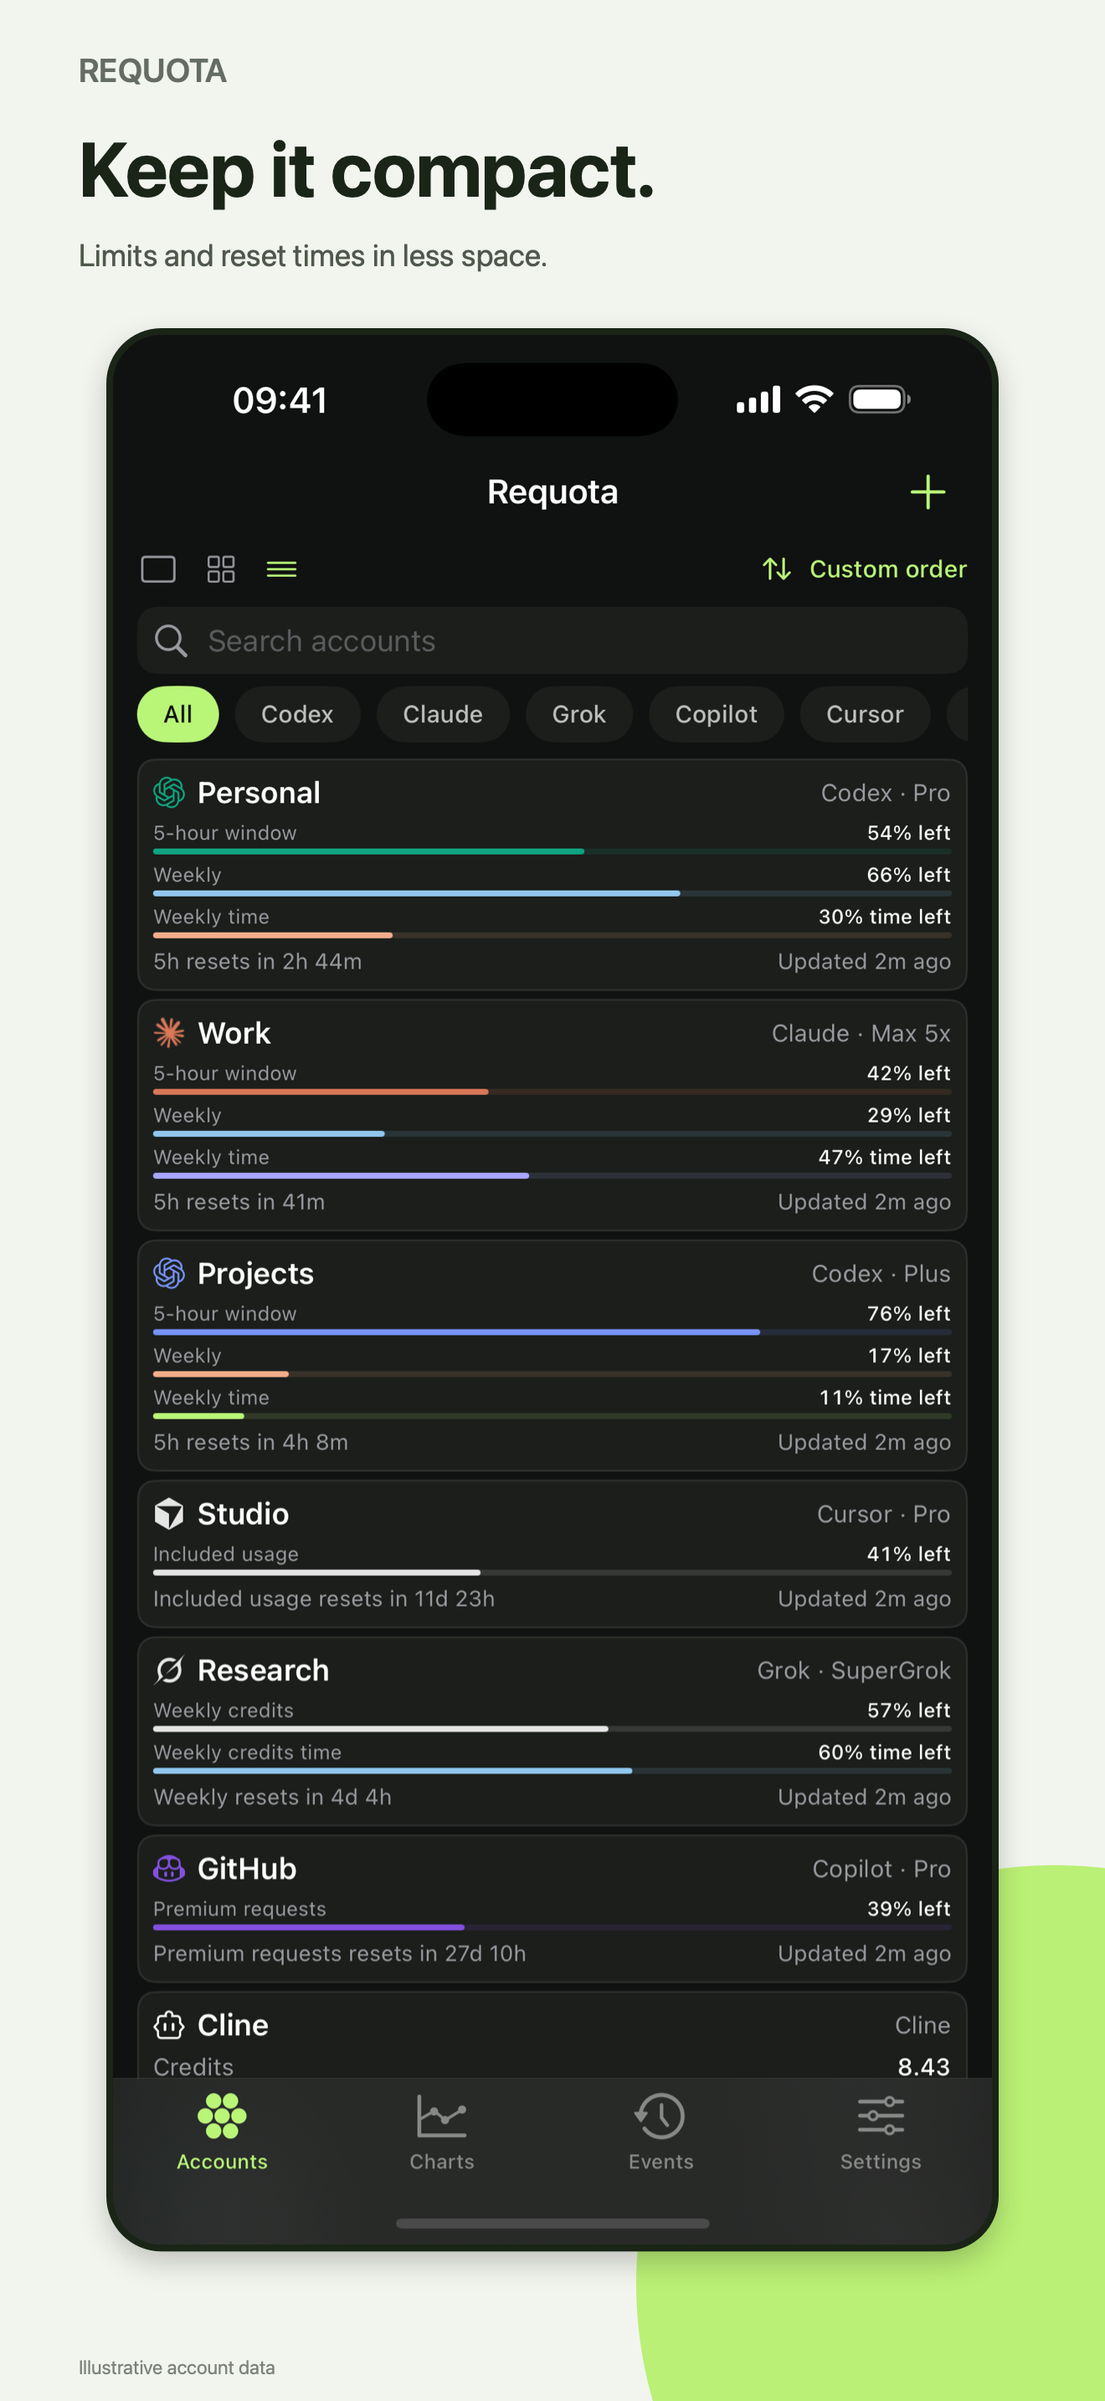
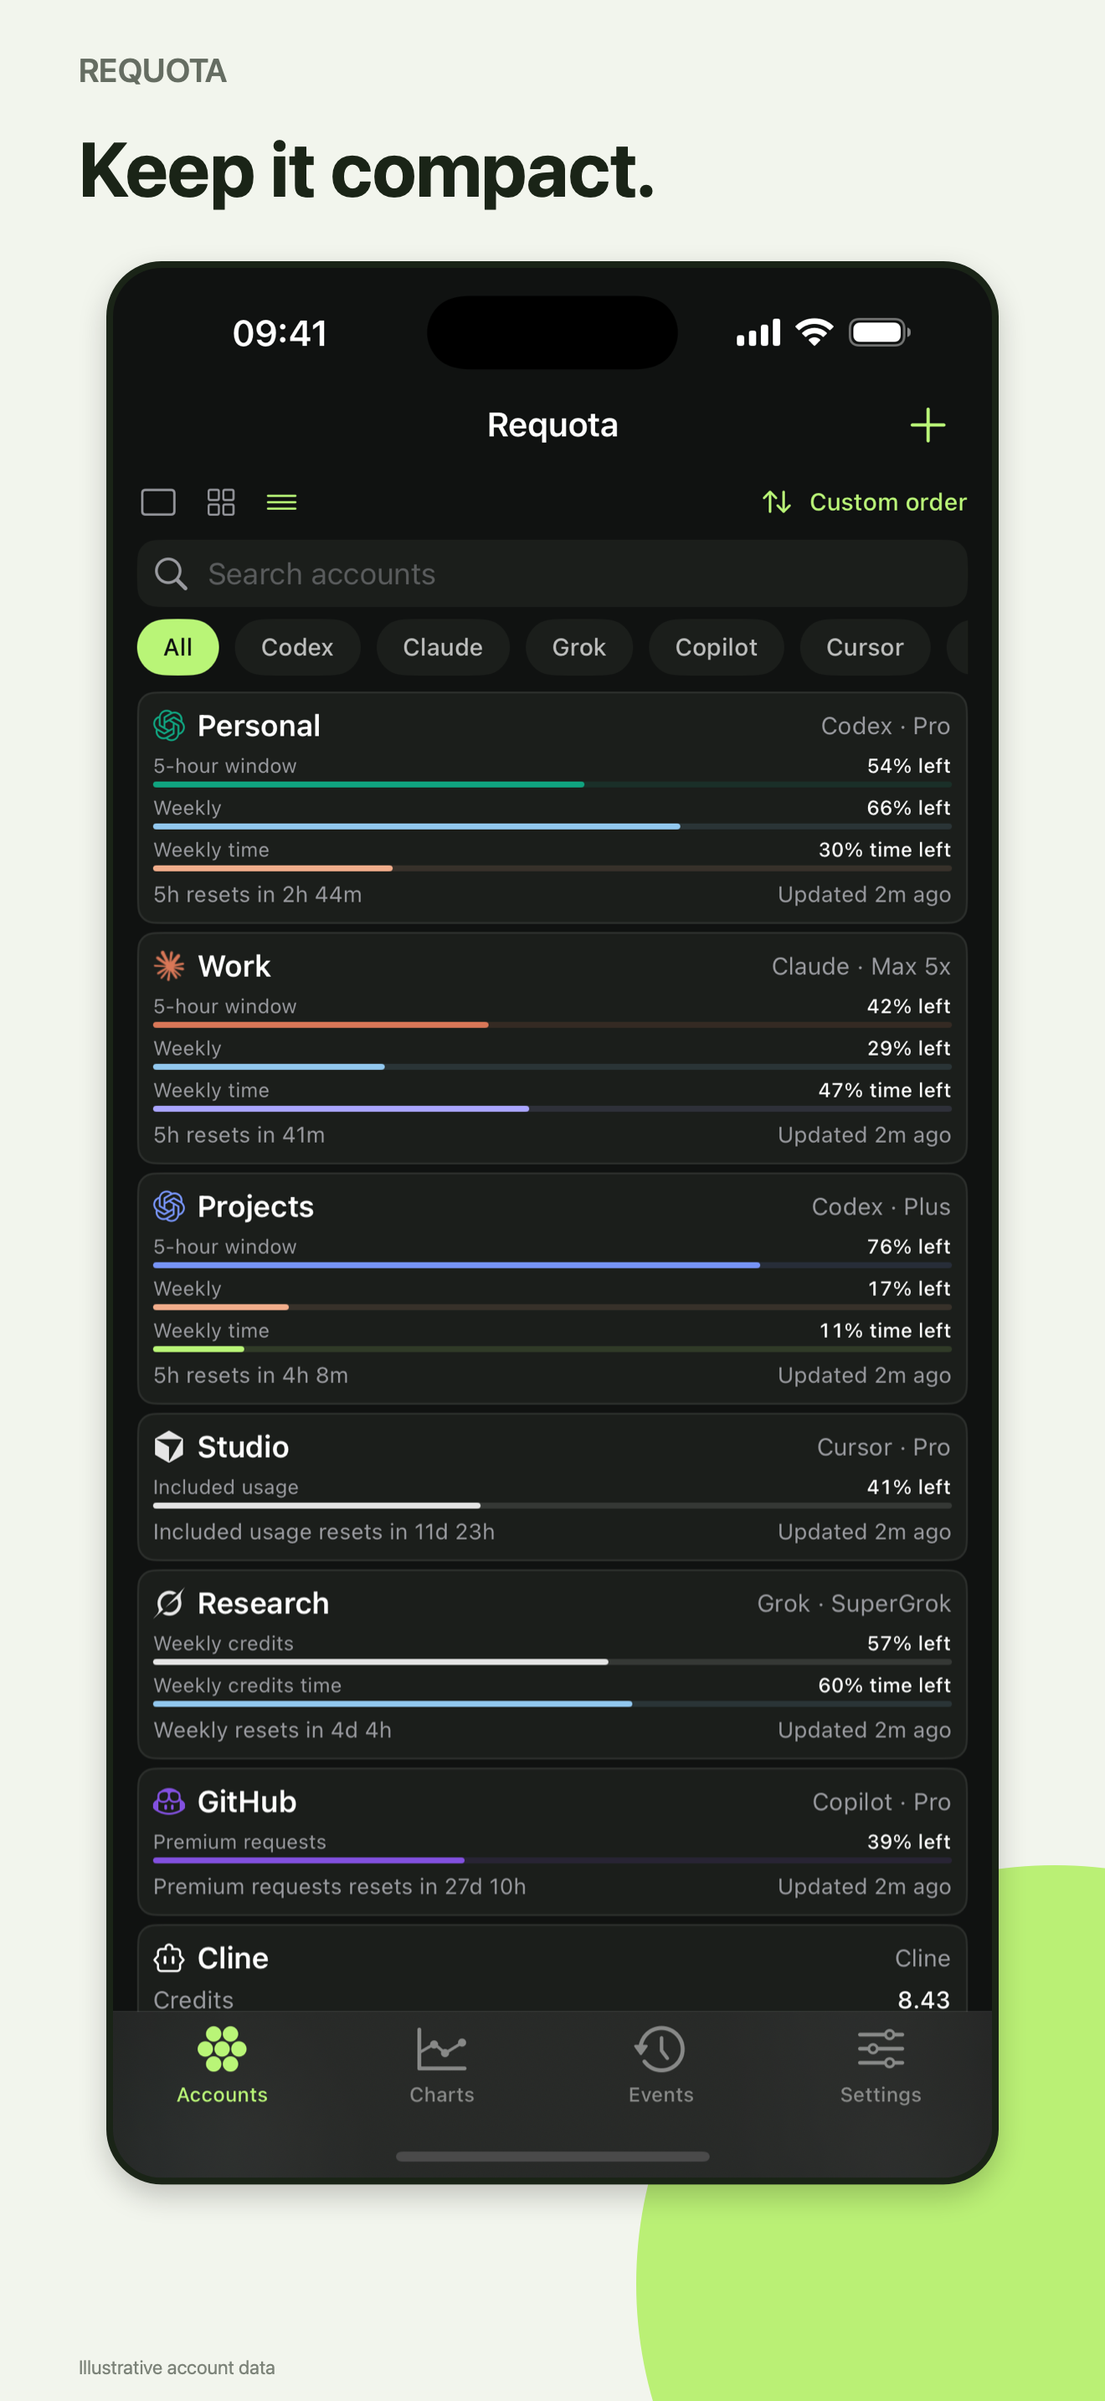
Simplify store screenshots and listing copy

diff --git a/docs/app-store/review.html b/docs/app-store/review.html
@@ -43,24 +43,24 @@ h1{font-size:30px;line-height:1.16;letter-spacing:-.7px;margin:0 0 8px}.subtitle
 <div class="section-title"><h2>Description</h2><button class="copy" data-field="description">Copy description</button></div><div class="description"><p>Keep track of your AI accounts in one place. Requota shows remaining usage, reset times and available credit balances, with widgets for a quick check throughout the day.</p>
 <p>Connect your accounts directly on your iPhone or iPad, including multiple accounts from the same provider. Give each a name, organise them by workstream and see which has allowance left.</p>
 <ul><li>Choose your view: rings, square tiles or compact bars. Search, filter, sort or arrange accounts in your own order.</li><li>Customise each account: show usage remaining or used, choose which limits and reset countdowns appear, and set your colours.</li><li>Add Home Screen and Lock Screen widgets: follow one account or use compact rows to see several together. Tap through to an account&#x27;s details.</li><li>Explore your history: compare accounts on interactive charts, check recent burn rates and time-to-zero estimates, and view activity heatmaps with daily breakdowns.</li><li>Set your alerts: configure low-allowance warnings, reset reminders and reminders to use remaining allowance before a reset. Adjust notification rules for each provider.</li><li>Follow account events: look back at observed resets, early resets, plan changes and banked reset activity where available.</li></ul>
-<h3>Supported providers</h3><p>Codex, Claude, Grok, Gemini CLI / Code Assist, GitHub Copilot, Cursor, Cline, Kimi Code, Perplexity, Devin and Amp. Available details can include credit balances, extra spending and model-specific allowances.</p>
+<h3>Supported providers</h3><p>Codex, Claude, Grok, Gemini CLI / Code Assist, GitHub Copilot, Cursor, Cline, Kimi Code, Perplexity, Devin and Amp.</p>
 <p>Credentials are stored in your device&#x27;s Keychain. Usage history is stored locally. The source code is public, with a link in Settings.</p>
-<p>Requires an account with a supported provider. Available limits, balances and reset details depend on the provider and plan. History builds from readings collected by Requota. Background and widget refresh timing is controlled by iOS.</p>
+<p>Requires an account with a supported provider.</p>
 <p>Requota is an independent app and is not affiliated with the listed providers.</p></div></section>
 <aside aria-label="Listing fields"><div class="field"><div class="field-header"><h3>Name</h3><span class="count">25/30</span></div><p>Requota: AI Usage Tracker</p><button class="copy" data-field="name">Copy name</button></div>
 <div class="field"><div class="field-header"><h3>Subtitle</h3><span class="count">24/30</span></div><p>Limits, resets &amp; widgets</p><button class="copy" data-field="subtitle">Copy subtitle</button></div>
 <div class="field"><div class="field-header"><h3>Keywords</h3><span class="count">92/100</span></div>
 <code id="keywords">quota,allowance,credits,balance,agents,coding,monitor,notifications,history,charts,burn,rate</code><button class="copy" data-field="keywords">Copy keywords</button></div><div class="field"><h3>Support</h3><a href="https://github.com/dotdioscorea/eyeballs/issues">GitHub issues</a></div><div class="field"><h3>Privacy policy</h3><a href="https://dotdioscorea.github.io/eyeballs/">Published policy</a></div>
-<div class="field"><h3>Copy lengths</h3><p>Promotional text: 136/170<br>Description: 1890/4,000</p></div>
+<div class="field"><h3>Copy lengths</h3><p>Promotional text: 136/170<br>Description: 1609/4,000</p></div>
 <div class="field"><h3>Files</h3><a href="listing-en-GB.txt">Plain-text listing</a><br><a href="listing-en-GB.json">Metadata and screenshot brief</a></div></aside></div>
 <details class="details"><summary>Comparison notes</summary><div><p>A concise benefit-led opening, concrete features and a short availability note. Emphasise multiple accounts per provider, custom layouts and dense widgets. Avoid claims of continuous tracking, guaranteed alerts or universal token/cost measurement.</p><ul class="research"><li><a href="https://apps.apple.com/ca/app/ai-token-limits/id6803703387" target="_blank" rel="noopener">AI Token Limits</a><p>Leads with remaining limits and direct phone access, then groups widgets, provider values and privacy. Its listing specifies one account per provider; Requota can make multi-account support more prominent.</p></li>
 <li><a href="https://apps.apple.com/us/app/ai-limits-reset-tracker/id6758946226" target="_blank" rel="noopener">AI Limits &amp; Reset Tracker</a><p>Closest feature breadth: multiple accounts, reset timers, pace, widgets, history and heatmaps. Its copy is extensive; use a shorter version of that feature coverage for Requota.</p></li>
 <li><a href="https://apps.apple.com/us/app/usage-for-claude/id6755173244" target="_blank" rel="noopener">Usage for Claude</a><p>Makes subscription limits, trends and widgets understandable. Requota&#x27;s opening should be similarly concrete while describing its broader provider coverage. The listing contains mixed platform copy, so avoid treating every listed feature as an iPhone feature.</p></li>
 <li><a href="https://apps.apple.com/us/app/codexbar-usage-of-ai/id6760216772" target="_blank" rel="noopener">CodexBar - Usage of AI</a><p>Promotes comparisons, detailed data and open source, while clearly explaining its Mac companion requirement. Requota connects on the iPhone; describe that positively without comparison claims.</p></li></ul><p class="note">Listings checked 4 October 2026. These notes describe positioning and copy, not independent verification of competing apps.</p></div></details>
-<details class="details"><summary>Screenshot preparation notes</summary><div><ul class="review-notes"><li>Six iPhone images at 1320 × 2868 and five iPad images at 2064 × 2752. PNG files are opaque and use sRGB.</li><li>The actual app is captured on dedicated simulators using an isolated screenshot fixture. No credentials or real account data are used.</li><li>Account names, plans and histories are illustrative. Forty days of distinct activity include idle periods and consistent quota resets; the final history values match the overview.</li><li>Store artwork adds framing and short captions around native captures. The widget image also includes a close-up crop of the actual widget. Original captures are included for inspection.</li><li>The screenshots reflect the working branch, including responsive tablet layouts and more realistic demo histories. They have not been uploaded to App Store Connect.</li></ul><p><a href="https://developer.apple.com/app-store/product-page" target="_blank" rel="noopener">Creating Your Product Page</a> · <a href="https://developer.apple.com/help/app-store-connect/reference/app-information/platform-version-information" target="_blank" rel="noopener">Platform version information</a> · <a href="https://developer.apple.com/help/app-store-connect/reference/app-information/screenshot-specifications" target="_blank" rel="noopener">Screenshot specifications</a></p></div></details>
+<details class="details"><summary>Screenshot preparation notes</summary><div><ul class="review-notes"><li>Six iPhone images at 1320 × 2868 and five iPad images at 2064 × 2752. PNG files are opaque and use sRGB.</li><li>The actual app is captured on dedicated simulators using an isolated screenshot fixture. No credentials or real account data are used.</li><li>Account names, plans and histories are illustrative. Forty days of distinct activity include idle periods and consistent quota resets; the final history values match the overview.</li><li>Store artwork adds framing and a title around native captures. The widget image also includes a close-up crop of the actual widget. Original captures are included for inspection.</li><li>The screenshots reflect the working branch, including responsive tablet layouts and more realistic demo histories. They have not been uploaded to App Store Connect.</li></ul><p><a href="https://developer.apple.com/app-store/product-page" target="_blank" rel="noopener">Creating Your Product Page</a> · <a href="https://developer.apple.com/help/app-store-connect/reference/app-information/platform-version-information" target="_blank" rel="noopener">Platform version information</a> · <a href="https://developer.apple.com/help/app-store-connect/reference/app-information/screenshot-specifications" target="_blank" rel="noopener">Screenshot specifications</a></p></div></details>
 <p class="note" style="margin:25px 0 0">This is a local review draft. No App Store metadata has been changed or submitted.</p>
 </main><div id="copy-status" role="status" aria-live="polite"></div>
-<script type="application/json" id="listing-data">{"name": "Requota: AI Usage Tracker", "subtitle": "Limits, resets & widgets", "promotionalText": "Check remaining AI usage and reset times across your accounts. Customise your dashboard and widgets, and compare usage trends over time.", "description": "Keep track of your AI accounts in one place. Requota shows remaining usage, reset times and available credit balances, with widgets for a quick check throughout the day.\n\nConnect your accounts directly on your iPhone or iPad, including multiple accounts from the same provider. Give each a name, organise them by workstream and see which has allowance left.\n\n• Choose your view: rings, square tiles or compact bars. Search, filter, sort or arrange accounts in your own order.\n• Customise each account: show usage remaining or used, choose which limits and reset countdowns appear, and set your colours.\n• Add Home Screen and Lock Screen widgets: follow one account or use compact rows to see several together. Tap through to an account's details.\n• Explore your history: compare accounts on interactive charts, check recent burn rates and time-to-zero estimates, and view activity heatmaps with daily breakdowns.\n• Set your alerts: configure low-allowance warnings, reset reminders and reminders to use remaining allowance before a reset. Adjust notification rules for each provider.\n• Follow account events: look back at observed resets, early resets, plan changes and banked reset activity where available.\n\nSupported providers\nCodex, Claude, Grok, Gemini CLI / Code Assist, GitHub Copilot, Cursor, Cline, Kimi Code, Perplexity, Devin and Amp. Available details can include credit balances, extra spending and model-specific allowances.\n\nCredentials are stored in your device's Keychain. Usage history is stored locally. The source code is public, with a link in Settings.\n\nRequires an account with a supported provider. Available limits, balances and reset details depend on the provider and plan. History builds from readings collected by Requota. Background and widget refresh timing is controlled by iOS.\n\nRequota is an independent app and is not affiliated with the listed providers.", "keywords": "quota,allowance,credits,balance,agents,coding,monitor,notifications,history,charts,burn,rate", "supportURL": "https://github.com/dotdioscorea/eyeballs/issues", "privacyPolicyURL": "https://dotdioscorea.github.io/eyeballs/", "marketingURL": null, "copyright": "2026 Aaron Rucinski"}</script>
+<script type="application/json" id="listing-data">{"name": "Requota: AI Usage Tracker", "subtitle": "Limits, resets & widgets", "promotionalText": "Check remaining AI usage and reset times across your accounts. Customise your dashboard and widgets, and compare usage trends over time.", "description": "Keep track of your AI accounts in one place. Requota shows remaining usage, reset times and available credit balances, with widgets for a quick check throughout the day.\n\nConnect your accounts directly on your iPhone or iPad, including multiple accounts from the same provider. Give each a name, organise them by workstream and see which has allowance left.\n\n• Choose your view: rings, square tiles or compact bars. Search, filter, sort or arrange accounts in your own order.\n• Customise each account: show usage remaining or used, choose which limits and reset countdowns appear, and set your colours.\n• Add Home Screen and Lock Screen widgets: follow one account or use compact rows to see several together. Tap through to an account's details.\n• Explore your history: compare accounts on interactive charts, check recent burn rates and time-to-zero estimates, and view activity heatmaps with daily breakdowns.\n• Set your alerts: configure low-allowance warnings, reset reminders and reminders to use remaining allowance before a reset. Adjust notification rules for each provider.\n• Follow account events: look back at observed resets, early resets, plan changes and banked reset activity where available.\n\nSupported providers\nCodex, Claude, Grok, Gemini CLI / Code Assist, GitHub Copilot, Cursor, Cline, Kimi Code, Perplexity, Devin and Amp.\n\nCredentials are stored in your device's Keychain. Usage history is stored locally. The source code is public, with a link in Settings.\n\nRequires an account with a supported provider.\n\nRequota is an independent app and is not affiliated with the listed providers.", "keywords": "quota,allowance,credits,balance,agents,coding,monitor,notifications,history,charts,burn,rate", "supportURL": "https://github.com/dotdioscorea/eyeballs/issues", "privacyPolicyURL": "https://dotdioscorea.github.io/eyeballs/", "marketingURL": null, "copyright": "2026 Aaron Rucinski"}</script>
 <script>
 const fields=JSON.parse(document.getElementById('listing-data').textContent);
 let timeout;

diff --git a/scripts/render-store-screenshots.swift b/scripts/render-store-screenshots.swift
@@ -11,19 +11,19 @@ let output = URL(fileURLWithPath: args[2], isDirectory: true)
 let ipad = args.count > 3 && args[3] == "ipad"
 try FileManager.default.createDirectory(at: output, withIntermediateDirectories: true)
 let size = CGSize(width: ipad ? 2064 : 1320, height: ipad ? 2752 : 2868)
-let titles: [(String, String, String)] = [
-    ("01-overview", "See what’s left.", "All your AI accounts in one view."),
-    ("02-widgets", "Six accounts.\nOne widget.", "Check remaining usage from your Home Screen."),
-    ("03-compact", "Keep it compact.", "Limits and reset times in less space."),
-    ("04-charts", "Compare your usage.", "History across accounts and providers."),
-    ("05-activity", "Find your patterns.", "See activity by day and account."),
-    ("06-rings", "Usage and resets.", "Track each allowance and its next reset.")
+let titles: [(String, String)] = [
+    ("01-overview", "See what’s left."),
+    ("02-widgets", "Six accounts.\nOne widget."),
+    ("03-compact", "Keep it compact."),
+    ("04-charts", "Compare your usage."),
+    ("05-activity", "Find your patterns."),
+    ("06-rings", "Usage and resets.")
 ]
 func text(_ value: String, rect: CGRect, size: CGFloat, weight: NSFont.Weight, color: NSColor) {
     let style = NSMutableParagraphStyle(); style.lineSpacing = 4; style.lineBreakMode = .byWordWrapping
     (value as NSString).draw(with: rect, options: [.usesLineFragmentOrigin, .usesFontLeading], attributes: [.font: NSFont.systemFont(ofSize: size, weight: weight), .foregroundColor: color, .paragraphStyle: style], context: nil)
 }
-for (id, title, subtitle) in titles {
+for (id, title) in titles {
     let path = input.appendingPathComponent(id + ".png")
     guard let source = NSImage(contentsOf: path) else { if id == "02-widgets" && ipad { continue }; fatalError("Missing \(path.path)") }
     let nativePixels = source.cgImage(forProposedRect: nil, context: nil, hints: nil)!
@@ -54,9 +54,8 @@ for (id, title, subtitle) in titles {
     let margin: CGFloat = ipad ? 112 : 94
     text("REQUOTA", rect: CGRect(x: margin, y: 60, width: 700, height: 58), size: 39, weight: .semibold, color: ink.withAlphaComponent(0.65))
     text(title, rect: CGRect(x: margin, y: 147, width: size.width - margin * 2, height: 225), size: ipad ? 101 : 91, weight: .bold, color: ink)
-    let subtitleY: CGFloat = title.contains("\n") ? 385 : 282
-    text(subtitle, rect: CGRect(x: margin, y: subtitleY, width: size.width - margin * 2, height: 82), size: ipad ? 42 : 37, weight: .regular, color: ink.withAlphaComponent(0.75))
-    let frameY: CGFloat = id == "02-widgets" ? 1120 : subtitleY + 118
+    let contentY: CGFloat = title.contains("\n") ? 430 : 320
+    let frameY: CGFloat = id == "02-widgets" ? 1050 : contentY
     let available = CGSize(width: id == "02-widgets" ? 700 : size.width - (ipad ? 170 : 270), height: size.height - frameY - 110)
     let scale = min(available.width / source.size.width, available.height / source.size.height)
     let imageSize = CGSize(width: source.size.width * scale, height: source.size.height * scale)
@@ -74,7 +73,7 @@ for (id, title, subtitle) in titles {
         // Coordinates are pixels in the committed 1320 × 2868 native capture.
         let crop = nativePixels.cropping(to: CGRect(x: 117, y: 284, width: 1086, height: 506))!
         let widget = NSImage(cgImage: crop, size: CGSize(width: 1086, height: 506))
-        let closeUp = CGRect(x: 94, y: 535, width: size.width - 188, height: (size.width - 188) * 506 / 1086)
+        let closeUp = CGRect(x: 94, y: contentY, width: size.width - 188, height: (size.width - 188) * 506 / 1086)
         NSGraphicsContext.saveGraphicsState()
         NSBezierPath(roundedRect: closeUp, xRadius: 92, yRadius: 92).addClip()
         widget.draw(in: closeUp, from: .zero, operation: .sourceOver, fraction: 1, respectFlipped: true, hints: [.interpolation: NSImageInterpolation.high])

diff --git a/scripts/prepare-store-listing.py b/scripts/prepare-store-listing.py
@@ -74,7 +74,7 @@ def main():
     text_lines += ["RECOMMENDED CATEGORIES", "Utilities; optional secondary category: Productivity", "",
                    "PRICE", listing["recommendations"]["pricing"], "", "SCREENSHOT ORDER"]
     for number, shot in enumerate(listing["screenshots"], 1):
-        text_lines += [f"{number}. {shot['headline']}", shot["caption"]]
+        text_lines += [f"{number}. {shot['headline']}"]
     text_lines += ["", "Screenshots use native captures with illustrative account data; original captures are included.",
                    "The listing has not been entered into App Store Connect or submitted for review.", ""]
     text_output = "\n".join(text_lines)
